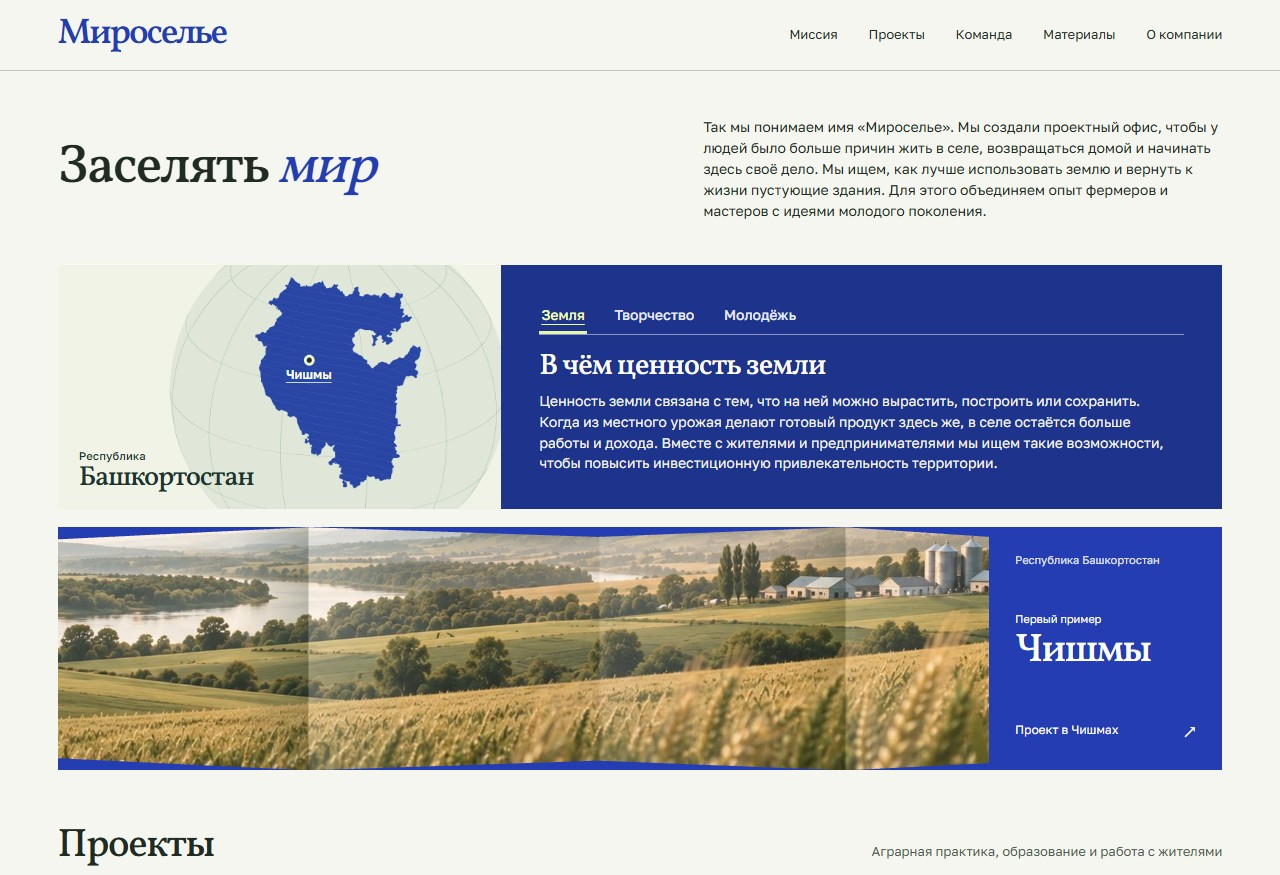
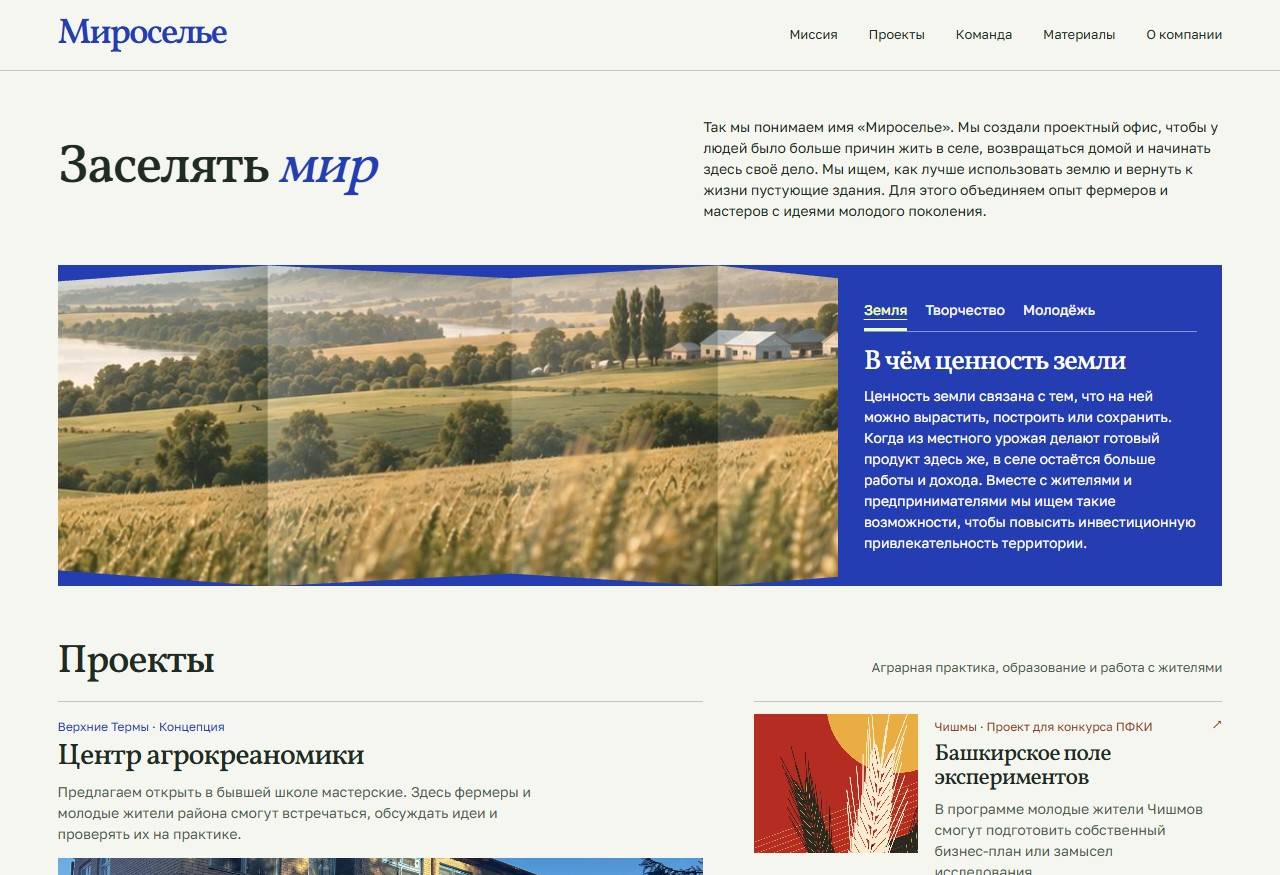
Три ценности Мироселья рядом с панорамой полей

diff --git a/index.html b/index.html
@@ -6,8 +6,8 @@
   <meta name="theme-color" content="#f6f7f2">
   <title>Мироселье · Проектный офис сельских территорий Башкортостана</title>
   <link rel="stylesheet" href="design/atlas-office.css">
-  <link rel="stylesheet" href="mission.css">
-  <script defer src="mission.js"></script>
+  <link rel="stylesheet" href="mission.css?v=panorama">
+  <script defer src="mission.js?v=panorama"></script>
   <meta name="description" content="Миссия «Мироселья» — заселять мир. Развитие сельских территорий через новые возможности для земли, креативные индустрии и работу с молодым поколением.">
   <link rel="canonical" href="https://lignatus.github.io/miroselye/">
   <meta property="og:type" content="website">
@@ -40,32 +40,24 @@
         <h1 id="mission-title">Заселять <em>мир</em></h1>
         <p>Так мы понимаем имя «Мироселье». Мы создали проектный офис, чтобы у людей было больше причин жить в селе, возвращаться домой и начинать здесь своё дело. Мы ищем, как лучше использовать землю и вернуть к жизни пустующие здания. Для этого объединяем опыт фермеров и мастеров с идеями молодого поколения.</p>
       </div>
-      <div class="mission-atlas" data-mission>
-        <div class="mission-globe">
-          <figure class="locator-plate">
-            <img src="assets/bashkortostan-globe.webp" width="1200" height="660" alt="Карта Башкортостана. Чишмы отмечены в западной части республики.">
-            <a class="locator-town" href="territory.html" aria-label="Чишмы, открыть проект на территории">Чишмы</a>
-            <figcaption><small>Республика</small><strong>Башкортостан</strong></figcaption>
-          </figure>
+      <div class="mission-panorama" data-mission>
+        <div class="foldout">
+          <img src="design/fields-panorama.webp" alt="Река среди полей и лесополос. На пригорке видны фермерские постройки." width="1672" height="341" fetchpriority="high">
+          <span class="folds" aria-hidden="true"></span>
         </div>
         <div class="mission-leaves">
-          <div class="mission-choices" hidden aria-label="Подход Мироселья">
+          <div class="mission-choices" hidden aria-label="Ценности Мироселья">
             <button id="tab-earth" aria-controls="leaf-earth" type="button">Земля</button>
             <button id="tab-craft" aria-controls="leaf-craft" type="button">Творчество</button>
             <button id="tab-youth" aria-controls="leaf-youth" type="button">Молодёжь</button>
           </div>
-          <article id="leaf-earth"><h2>В чём ценность земли</h2><p>Ценность земли связана с тем, что на ней можно вырастить, построить или сохранить. Когда из местного урожая делают готовый продукт здесь же, в селе остаётся больше работы и дохода. Вместе с жителями и предпринимателями мы ищем такие возможности, чтобы повысить инвестиционную привлекательность территории.</p></article>
-          <article id="leaf-craft"><h2>Креативные индустрии на селе</h2><p>У фермера есть продукт и знание своей земли. Дизайнер может помочь ему представить этот продукт покупателям, а ремесленник придумать, что сделать из местного сырья. Так к сельскому хозяйству добавляются новые профессии, у людей появляется больше способов зарабатывать дома.</p></article>
-          <article id="leaf-youth"><h2>Как найти своё дело рядом с домом</h2><p>Работая с молодёжью, мы начинаем с того, что ребятам интересно самим. Они могут начертить карту посёлка, предложить идею для хозяйства, обсудить её с фермером и посчитать затраты. Такой опыт помогает понять, где в родном районе пригодятся их способности.</p></article>
+          <div class="mission-pages">
+            <article id="leaf-earth"><h2>В чём ценность земли</h2><p>Ценность земли связана с тем, что на ней можно вырастить, построить или сохранить. Когда из местного урожая делают готовый продукт здесь же, в селе остаётся больше работы и дохода. Вместе с жителями и предпринимателями мы ищем такие возможности, чтобы повысить инвестиционную привлекательность территории.</p></article>
+            <article id="leaf-craft"><h2>Креативные индустрии на селе</h2><p>У фермера есть продукт и знание своей земли. Дизайнер может помочь ему представить этот продукт покупателям, а ремесленник придумать, что сделать из местного сырья. Так к сельскому хозяйству добавляются новые профессии, у людей появляется больше способов зарабатывать дома.</p></article>
+            <article id="leaf-youth"><h2>Как найти своё дело рядом с домом</h2><p>Работая с молодёжью, мы начинаем с того, что ребятам интересно самим. Они могут начертить карту посёлка, предложить идею для хозяйства, обсудить её с фермером и посчитать затраты. Такой опыт помогает понять, где в родном районе пригодятся их способности.</p></article>
+          </div>
         </div>
       </div>
-      <figure class="land">
-        <div class="foldout">
-          <img src="design/fields-panorama.webp" alt="Панорама полей и реки из концепции пилотной территории Чишминского района" width="1672" height="341" fetchpriority="high">
-          <span class="folds" aria-hidden="true"></span>
-        </div>
-        <figcaption><span>Республика Башкортостан</span><div><small>Первый пример</small><b>Чишмы</b></div><a href="territory.html">Проект в Чишмах <span aria-hidden="true">↗</span></a></figcaption>
-      </figure>
     </section>
     <section id="projects" class="projects page-section">
       <div class="section-line"><h2>Проекты</h2><p>Аграрная практика, образование и работа с жителями</p></div>

diff --git a/mission.css b/mission.css
@@ -1,45 +1,57 @@
-/* A leaf in the atlas pairs a globe with the three parts of the mission. */
 .mission-heading { align-items:center; padding-block:clamp(25px,3.5vw,52px); }
 .mission-heading h1 { grid-row:auto; }
 .mission-heading p { max-width:62ch; }
-.mission-atlas { display:grid; grid-template-columns:minmax(255px,.86fr) minmax(0,1.4fr); color:#f9faee; background:#1e348c; margin-bottom:18px; overflow:hidden; }
-.mission-globe {
-  display:grid; place-items:center; overflow:hidden; background:#f2f3e8;
+
+.mission-panorama {
+  display:grid;
+  grid-template-columns:minmax(0,1fr) clamp(340px,33%,440px);
+  color:#fffef7;
+  background:var(--blue);
 }
-.locator-plate { width:100%; position:relative; color:#1f342e; }
-.locator-plate img { width:100%; height:auto; }
-.locator-plate figcaption { position:absolute; left:4.8%; bottom:6.5%; }
-.locator-plate small { display:block; font:500 11px/1.45 var(--sans); letter-spacing:.02em; }
-.locator-plate strong { display:block; font:530 clamp(20px,2.15vw,32px)/1.08 var(--serif); letter-spacing:-.045em; }
-.locator-town { position:absolute; left:56.68%; top:38.96%; transform:translateX(-50%); padding:8px 3px; font:570 clamp(12px,1vw,15px)/1 var(--sans); color:white; text-decoration:underline; text-underline-offset:3px; text-decoration-color:#c2dbef; }
-.locator-town:hover { text-decoration-thickness:2px; }
-.mission-globe .locator-town:focus-visible { outline:2px solid white; outline-offset:0; }
-.mission-leaves { padding:clamp(20px,2.5vw,36px) clamp(20px,3vw,50px); align-self:center; min-width:0; }
-.mission-choices { display:flex; flex-wrap:wrap; align-items:center; column-gap:clamp(14px,2vw,28px); border-bottom:1px solid #8997c8; margin-bottom:17px; }
-.mission-choices[hidden],.mission-leaves article[hidden] { display:none; }
-.mission-choices button { appearance:none; border:0; border-bottom:3px solid transparent; border-radius:0; background:none; padding:5px 2px 8px; color:#e6ebff; font:500 14px/1.25 var(--sans); cursor:pointer; }
-.mission-choices button[aria-selected=true] { color:#efffad; border-color:#e3f7a4; }
+.mission-panorama .foldout { height:auto; min-height:240px; overflow:hidden; }
+.mission-panorama .foldout img { position:absolute; inset:0; object-position:62% center; }
+.mission-panorama[data-ready] { touch-action:pan-y pinch-zoom; }
+.mission-leaves { min-width:0; padding:clamp(18px,2vw,28px); }
+.mission-choices { display:flex; align-items:center; gap:clamp(12px,1.4vw,22px); border-bottom:1px solid #8393dc; margin-bottom:16px; }
+.mission-choices[hidden] { display:none; }
+.mission-choices button {
+  appearance:none;
+  background:none;
+  border:0;
+  border-bottom:3px solid transparent;
+  border-radius:0;
+  color:#f2f4ff;
+  padding:8px 0 7px;
+  min-height:40px;
+  font:500 14px/1.25 var(--sans);
+  cursor:pointer;
+}
+.mission-choices button[aria-selected=true] { color:#efffad; border-bottom-color:currentColor; }
 .mission-choices button:hover { text-decoration:underline; text-underline-offset:4px; }
-.mission-atlas :focus-visible { outline:2px solid #efffad; outline-offset:3px; }
-.mission-leaves h2 { color:#fffef7; font-size:clamp(23px,2.3vw,34px); letter-spacing:-.025em; margin:0 0 8px; }
-.mission-leaves p { max-width:74ch; color:#f3f4ed; font-size:clamp(14px,1.09vw,16px); line-height:1.48; }
-.mission-leaves article + article { margin-top:16px; }
-.mission-atlas[data-ready] article { margin-top:0; }
-.mission-atlas[data-ready] .mission-leaves { touch-action:pan-y; }
+.mission-panorama :focus-visible { outline:2px solid #efffad; outline-offset:3px; }
+.mission-pages h2 { font-size:clamp(23px,2.15vw,32px); margin-bottom:8px; }
+.mission-pages p { font-size:14px; line-height:1.5; }
+.mission-pages article + article { margin-top:20px; }
+/* All panels contribute their height so switching values keeps the panorama still. */
+[data-ready] .mission-pages { display:grid; }
+[data-ready] .mission-pages article { grid-area:1 / 1; margin:0; }
+.mission-pages article[inert] { visibility:hidden; }
+
 .urban-method-card img { object-fit:contain; background:#f6d550; }
 .field-program-card .project-info>span, .field-program-card .project-info i { color:#923d23; }
 .field-program-card img { object-position:center; }
-@media(max-width:660px) {
- .mission-heading p { margin-bottom:0; }
- .mission-atlas { grid-template-columns:minmax(0,1fr); margin-bottom:14px; }
- .locator-plate { max-width:480px; }
- .mission-leaves { padding:12px 16px 20px; }
- .mission-choices { column-gap:16px; margin-bottom:14px; }
- .mission-choices button { font-size:13px; min-height:40px; }
- .mission-leaves h2 { font-size:24px; }
- .mission-leaves p { font-size:14px; }
+
+@media(max-width:700px) {
+  .mission-heading p { margin-bottom:0; }
+  .mission-panorama { grid-template-columns:minmax(0,1fr); }
+  .mission-panorama .foldout { height:clamp(125px,33vw,215px); min-height:0; }
+  .mission-panorama .foldout img { object-position:62% center; }
+  .mission-leaves { padding:8px 16px 22px; }
+  .mission-choices { gap:18px; margin-bottom:14px; }
+  .mission-choices button { font-size:13px; min-height:44px; }
+  .mission-pages h2 { font-size:24px; }
 }
 @media(prefers-reduced-motion:no-preference) {
- .mission-leaves article.show-leaf { animation:open-leaf .22s ease-out; }
- @keyframes open-leaf { from{opacity:.65;transform:translateX(4px)} to{opacity:1;transform:translateX(0)} }
+  .mission-pages article.show-leaf { animation:open-leaf .2s ease-out; }
+  @keyframes open-leaf { from { opacity:.65; transform:translateX(4px); } to { opacity:1; transform:translateX(0); } }
 }

diff --git a/mission.js b/mission.js
@@ -10,7 +10,7 @@ if (atlas) {
       const active = i === selected;
       tab.tabIndex = active ? 0 : -1;
       tab.setAttribute('aria-selected', String(active));
-      pages[i].hidden = !active;
+      pages[i].inert = !active;
       pages[i].classList.toggle('show-leaf', active);
     });
     if (moveFocus) tabs[selected].focus();
@@ -30,12 +30,11 @@ if (atlas) {
     });
   });
   let pointer = null;
-  const leaves = atlas.querySelector('.mission-leaves');
-  leaves.addEventListener('pointerdown', e => {
+  atlas.addEventListener('pointerdown', e => {
     if (e.pointerType === 'touch' && !e.target.closest('button')) pointer = {id:e.pointerId, x:e.clientX, y:e.clientY};
   });
-  leaves.addEventListener('pointercancel', () => { pointer = null; });
-  leaves.addEventListener('pointerup', e => {
+  atlas.addEventListener('pointercancel', () => { pointer = null; });
+  atlas.addEventListener('pointerup', e => {
     if (!pointer || pointer.id !== e.pointerId) return;
     const dx = e.clientX - pointer.x, dy = e.clientY - pointer.y;
     pointer = null;
